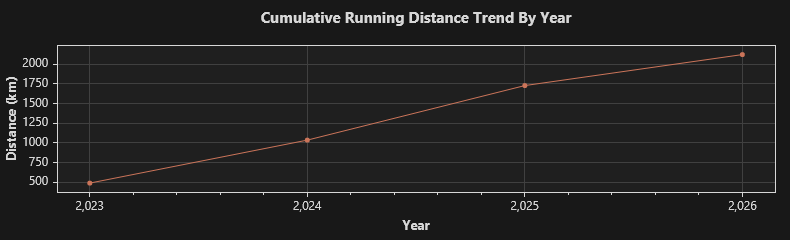
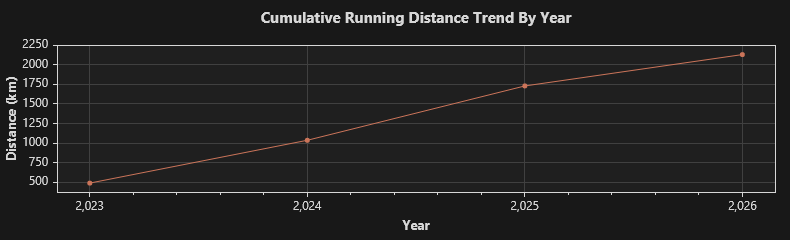
2026/7/29 跑步 6.27 公里

diff --git a/trend.md b/trend.md
@@ -1,4 +1,4 @@
-### Total: 361 days, 2122.07 km.
+### Total: 362 days, 2128.34 km.
 
 
 ![Monthly](https://github.com/prime167/MyRunningLog/blob/main/data/CumulativeTrendByMonth.png)
